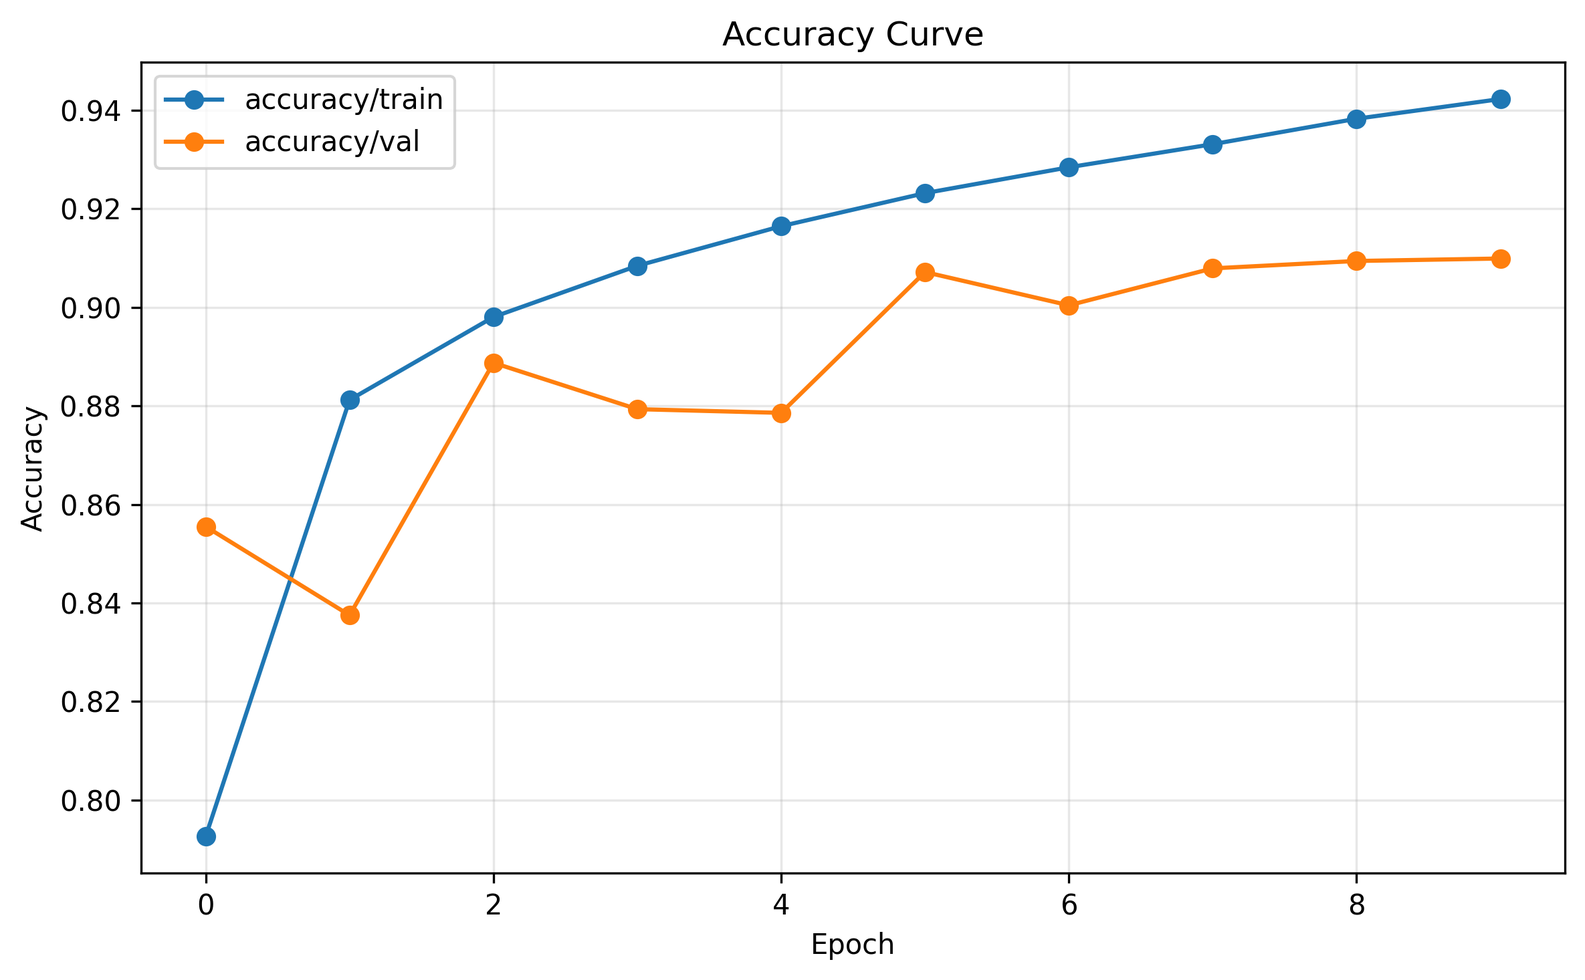
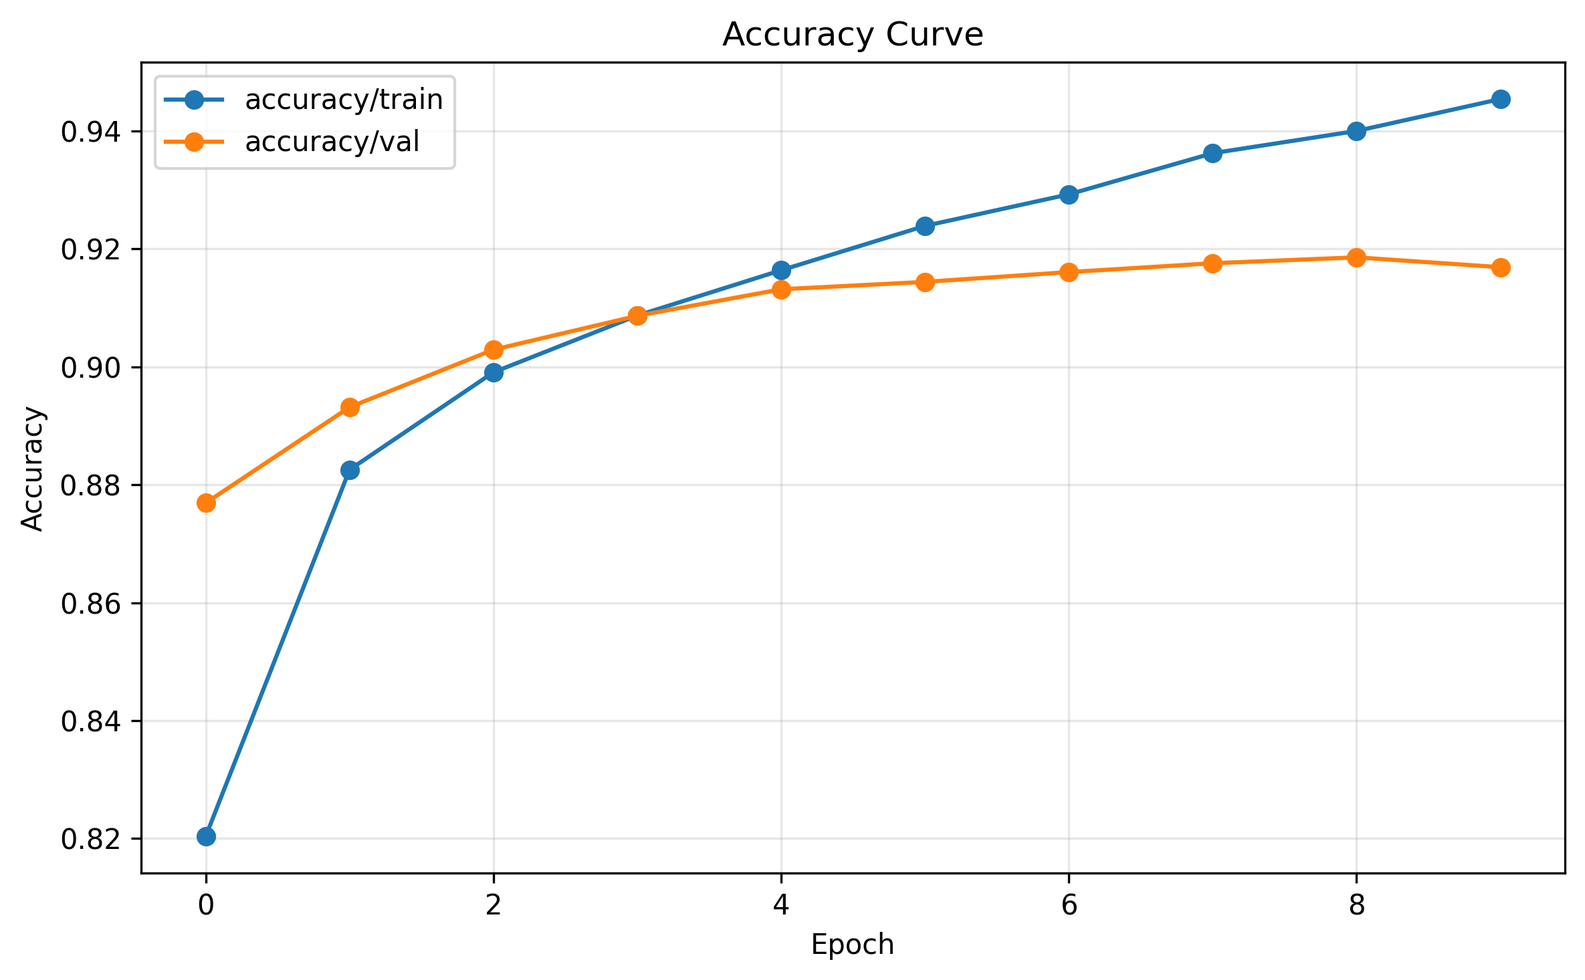
select cnn basic

diff --git a/dvclive/report.html b/dvclive/report.html
@@ -22,10 +22,10 @@
             <div style="display: flex;justify-content: center;">
                 <table>
 <thead>
-<tr><th>arch_config            </th><th>arch_name  </th><th style="text-align: right;">  epochs</th><th style="text-align: right;">  batch_size</th><th style="text-align: right;">   lr</th><th>optimizer  </th><th style="text-align: right;">  dropout</th><th style="text-align: right;">  total_params</th><th style="text-align: right;">  seed</th></tr>
+<tr><th>arch_config          </th><th>arch_name  </th><th style="text-align: right;">  epochs</th><th style="text-align: right;">  batch_size</th><th style="text-align: right;">   lr</th><th>optimizer  </th><th style="text-align: right;">  dropout</th><th style="text-align: right;">  total_params</th><th style="text-align: right;">  seed</th></tr>
 </thead>
 <tbody>
-<tr><td>configs/cnn_dropout.yml</td><td>cnn_dropout</td><td style="text-align: right;">      10</td><td style="text-align: right;">          64</td><td style="text-align: right;">0.001</td><td>adam       </td><td style="text-align: right;">      0.3</td><td style="text-align: right;">        118986</td><td style="text-align: right;">    42</td></tr>
+<tr><td>configs/cnn_basic.yml</td><td>cnn_basic  </td><td style="text-align: right;">      10</td><td style="text-align: right;">          64</td><td style="text-align: right;">0.001</td><td>adam       </td><td style="text-align: right;">      0.3</td><td style="text-align: right;">        421642</td><td style="text-align: right;">    42</td></tr>
 </tbody>
 </table>
             </div>
@@ -39,7 +39,7 @@
 <tr><th style="text-align: right;">  loss.train</th><th style="text-align: right;">  loss.val</th><th style="text-align: right;">  accuracy.train</th><th style="text-align: right;">  accuracy.val</th><th style="text-align: right;">  step</th><th style="text-align: right;">  final_train_accuracy</th><th style="text-align: right;">  final_val_accuracy</th><th style="text-align: right;">  final_train_loss</th><th style="text-align: right;">  final_val_loss</th></tr>
 </thead>
 <tbody>
-<tr><td style="text-align: right;">    0.164721</td><td style="text-align: right;">  0.282916</td><td style="text-align: right;">        0.942292</td><td style="text-align: right;">      0.909917</td><td style="text-align: right;">     9</td><td style="text-align: right;">                0.9423</td><td style="text-align: right;">              0.9099</td><td style="text-align: right;">            0.1647</td><td style="text-align: right;">          0.2829</td></tr>
+<tr><td style="text-align: right;">    0.145515</td><td style="text-align: right;">  0.243749</td><td style="text-align: right;">        0.945437</td><td style="text-align: right;">      0.916917</td><td style="text-align: right;">     9</td><td style="text-align: right;">                0.9454</td><td style="text-align: right;">              0.9169</td><td style="text-align: right;">            0.1455</td><td style="text-align: right;">          0.2437</td></tr>
 </tbody>
 </table>
             </div>
@@ -47,7 +47,7 @@
 
     <div id = "static_accuracy_train">
         <script type = "text/javascript">
-            var spec = {"$schema": "https://vega.github.io/schema/vega-lite/v5.json", "data": {"values": [{"step": "0", "train": "0.7926250100135803", "rev": "workspace"}, {"step": "1", "train": "0.8812083601951599", "rev": "workspace"}, {"step": "2", "train": "0.8980416655540466", "rev": "workspace"}, {"step": "3", "train": "0.9084374904632568", "rev": "workspace"}, {"step": "4", "train": "0.9164791703224182", "rev": "workspace"}, {"step": "5", "train": "0.9231874942779541", "rev": "workspace"}, {"step": "6", "train": "0.9284374713897705", "rev": "workspace"}, {"step": "7", "train": "0.9331250190734863", "rev": "workspace"}, {"step": "8", "train": "0.9382916688919067", "rev": "workspace"}, {"step": "9", "train": "0.9422916769981384", "rev": "workspace"}]}, "title": {"text": "accuracy/train", "anchor": "middle"}, "width": 300, "height": 300, "params": [{"name": "smooth", "value": 0.001, "bind": {"input": "range", "min": 0.001, "max": 1, "step": 0.001}}], "encoding": {"x": {"field": "step", "type": "quantitative", "title": "step"}, "color": {"field": "rev", "scale": {"domain": ["workspace"], "range": ["#945dd6"]}}, "strokeDash": {}}, "layer": [{"layer": [{"params": [{"name": "grid", "select": "interval", "bind": "scales"}], "mark": "line"}, {"transform": [{"filter": {"param": "hover", "empty": false}}], "mark": "point"}], "encoding": {"y": {"field": "train", "type": "quantitative", "title": "train", "scale": {"zero": false}}, "color": {"field": "rev", "type": "nominal"}}, "transform": [{"loess": "train", "on": "step", "groupby": ["rev"], "bandwidth": {"signal": "smooth"}}]}, {"mark": {"type": "line", "opacity": 0.2}, "encoding": {"x": {"field": "step", "type": "quantitative", "title": "step"}, "y": {"field": "train", "type": "quantitative", "title": "train", "scale": {"zero": false}}, "color": {"field": "rev", "type": "nominal"}}}, {"mark": {"type": "circle", "size": 10}, "encoding": {"x": {"aggregate": "max", "field": "step", "type": "quantitative", "title": "step"}, "y": {"aggregate": {"argmax": "step"}, "field": "train", "type": "quantitative", "title": "train", "scale": {"zero": false}}, "color": {"field": "rev", "type": "nominal"}}}, {"transform": [{"calculate": "datum.rev", "as": "pivot_field"}, {"pivot": "pivot_field", "op": "mean", "value": "train", "groupby": ["step"]}], "mark": {"type": "rule", "tooltip": {"content": "data"}, "stroke": "grey"}, "encoding": {"opacity": {"condition": {"value": 0.3, "param": "hover", "empty": false}, "value": 0}}, "params": [{"name": "hover", "select": {"type": "point", "fields": ["step"], "nearest": true, "on": "mouseover", "clear": "mouseout"}}]}]};
+            var spec = {"$schema": "https://vega.github.io/schema/vega-lite/v5.json", "data": {"values": [{"step": "0", "train": "0.8203750252723694", "rev": "workspace"}, {"step": "1", "train": "0.882562518119812", "rev": "workspace"}, {"step": "2", "train": "0.8990833163261414", "rev": "workspace"}, {"step": "3", "train": "0.9087083339691162", "rev": "workspace"}, {"step": "4", "train": "0.9163958430290222", "rev": "workspace"}, {"step": "5", "train": "0.9239166378974915", "rev": "workspace"}, {"step": "6", "train": "0.9292708039283752", "rev": "workspace"}, {"step": "7", "train": "0.9362499713897705", "rev": "workspace"}, {"step": "8", "train": "0.9400208592414856", "rev": "workspace"}, {"step": "9", "train": "0.945437490940094", "rev": "workspace"}]}, "title": {"text": "accuracy/train", "anchor": "middle"}, "width": 300, "height": 300, "params": [{"name": "smooth", "value": 0.001, "bind": {"input": "range", "min": 0.001, "max": 1, "step": 0.001}}], "encoding": {"x": {"field": "step", "type": "quantitative", "title": "step"}, "color": {"field": "rev", "scale": {"domain": ["workspace"], "range": ["#945dd6"]}}, "strokeDash": {}}, "layer": [{"layer": [{"params": [{"name": "grid", "select": "interval", "bind": "scales"}], "mark": "line"}, {"transform": [{"filter": {"param": "hover", "empty": false}}], "mark": "point"}], "encoding": {"y": {"field": "train", "type": "quantitative", "title": "train", "scale": {"zero": false}}, "color": {"field": "rev", "type": "nominal"}}, "transform": [{"loess": "train", "on": "step", "groupby": ["rev"], "bandwidth": {"signal": "smooth"}}]}, {"mark": {"type": "line", "opacity": 0.2}, "encoding": {"x": {"field": "step", "type": "quantitative", "title": "step"}, "y": {"field": "train", "type": "quantitative", "title": "train", "scale": {"zero": false}}, "color": {"field": "rev", "type": "nominal"}}}, {"mark": {"type": "circle", "size": 10}, "encoding": {"x": {"aggregate": "max", "field": "step", "type": "quantitative", "title": "step"}, "y": {"aggregate": {"argmax": "step"}, "field": "train", "type": "quantitative", "title": "train", "scale": {"zero": false}}, "color": {"field": "rev", "type": "nominal"}}}, {"transform": [{"calculate": "datum.rev", "as": "pivot_field"}, {"pivot": "pivot_field", "op": "mean", "value": "train", "groupby": ["step"]}], "mark": {"type": "rule", "tooltip": {"content": "data"}, "stroke": "grey"}, "encoding": {"opacity": {"condition": {"value": 0.3, "param": "hover", "empty": false}, "value": 0}}, "params": [{"name": "hover", "select": {"type": "point", "fields": ["step"], "nearest": true, "on": "mouseover", "clear": "mouseout"}}]}]};
             vegaEmbed('#static_accuracy_train', spec);
         </script>
     </div>
@@ -55,7 +55,7 @@
 
     <div id = "static_accuracy_val">
         <script type = "text/javascript">
-            var spec = {"$schema": "https://vega.github.io/schema/vega-lite/v5.json", "data": {"values": [{"step": "0", "val": "0.8554999828338623", "rev": "workspace"}, {"step": "1", "val": "0.8374999761581421", "rev": "workspace"}, {"step": "2", "val": "0.8887500166893005", "rev": "workspace"}, {"step": "3", "val": "0.8793333172798157", "rev": "workspace"}, {"step": "4", "val": "0.8785833120346069", "rev": "workspace"}, {"step": "5", "val": "0.9071666598320007", "rev": "workspace"}, {"step": "6", "val": "0.9004166722297668", "rev": "workspace"}, {"step": "7", "val": "0.9079166650772095", "rev": "workspace"}, {"step": "8", "val": "0.909416675567627", "rev": "workspace"}, {"step": "9", "val": "0.9099166393280029", "rev": "workspace"}]}, "title": {"text": "accuracy/val", "anchor": "middle"}, "width": 300, "height": 300, "params": [{"name": "smooth", "value": 0.001, "bind": {"input": "range", "min": 0.001, "max": 1, "step": 0.001}}], "encoding": {"x": {"field": "step", "type": "quantitative", "title": "step"}, "color": {"field": "rev", "scale": {"domain": ["workspace"], "range": ["#945dd6"]}}, "strokeDash": {}}, "layer": [{"layer": [{"params": [{"name": "grid", "select": "interval", "bind": "scales"}], "mark": "line"}, {"transform": [{"filter": {"param": "hover", "empty": false}}], "mark": "point"}], "encoding": {"y": {"field": "val", "type": "quantitative", "title": "val", "scale": {"zero": false}}, "color": {"field": "rev", "type": "nominal"}}, "transform": [{"loess": "val", "on": "step", "groupby": ["rev"], "bandwidth": {"signal": "smooth"}}]}, {"mark": {"type": "line", "opacity": 0.2}, "encoding": {"x": {"field": "step", "type": "quantitative", "title": "step"}, "y": {"field": "val", "type": "quantitative", "title": "val", "scale": {"zero": false}}, "color": {"field": "rev", "type": "nominal"}}}, {"mark": {"type": "circle", "size": 10}, "encoding": {"x": {"aggregate": "max", "field": "step", "type": "quantitative", "title": "step"}, "y": {"aggregate": {"argmax": "step"}, "field": "val", "type": "quantitative", "title": "val", "scale": {"zero": false}}, "color": {"field": "rev", "type": "nominal"}}}, {"transform": [{"calculate": "datum.rev", "as": "pivot_field"}, {"pivot": "pivot_field", "op": "mean", "value": "val", "groupby": ["step"]}], "mark": {"type": "rule", "tooltip": {"content": "data"}, "stroke": "grey"}, "encoding": {"opacity": {"condition": {"value": 0.3, "param": "hover", "empty": false}, "value": 0}}, "params": [{"name": "hover", "select": {"type": "point", "fields": ["step"], "nearest": true, "on": "mouseover", "clear": "mouseout"}}]}]};
+            var spec = {"$schema": "https://vega.github.io/schema/vega-lite/v5.json", "data": {"values": [{"step": "0", "val": "0.8769166469573975", "rev": "workspace"}, {"step": "1", "val": "0.8931666612625122", "rev": "workspace"}, {"step": "2", "val": "0.902916669845581", "rev": "workspace"}, {"step": "3", "val": "0.9086666703224182", "rev": "workspace"}, {"step": "4", "val": "0.9131666421890259", "rev": "workspace"}, {"step": "5", "val": "0.9144166707992554", "rev": "workspace"}, {"step": "6", "val": "0.9160833358764648", "rev": "workspace"}, {"step": "7", "val": "0.9175833463668823", "rev": "workspace"}, {"step": "8", "val": "0.918583333492279", "rev": "workspace"}, {"step": "9", "val": "0.9169166684150696", "rev": "workspace"}]}, "title": {"text": "accuracy/val", "anchor": "middle"}, "width": 300, "height": 300, "params": [{"name": "smooth", "value": 0.001, "bind": {"input": "range", "min": 0.001, "max": 1, "step": 0.001}}], "encoding": {"x": {"field": "step", "type": "quantitative", "title": "step"}, "color": {"field": "rev", "scale": {"domain": ["workspace"], "range": ["#945dd6"]}}, "strokeDash": {}}, "layer": [{"layer": [{"params": [{"name": "grid", "select": "interval", "bind": "scales"}], "mark": "line"}, {"transform": [{"filter": {"param": "hover", "empty": false}}], "mark": "point"}], "encoding": {"y": {"field": "val", "type": "quantitative", "title": "val", "scale": {"zero": false}}, "color": {"field": "rev", "type": "nominal"}}, "transform": [{"loess": "val", "on": "step", "groupby": ["rev"], "bandwidth": {"signal": "smooth"}}]}, {"mark": {"type": "line", "opacity": 0.2}, "encoding": {"x": {"field": "step", "type": "quantitative", "title": "step"}, "y": {"field": "val", "type": "quantitative", "title": "val", "scale": {"zero": false}}, "color": {"field": "rev", "type": "nominal"}}}, {"mark": {"type": "circle", "size": 10}, "encoding": {"x": {"aggregate": "max", "field": "step", "type": "quantitative", "title": "step"}, "y": {"aggregate": {"argmax": "step"}, "field": "val", "type": "quantitative", "title": "val", "scale": {"zero": false}}, "color": {"field": "rev", "type": "nominal"}}}, {"transform": [{"calculate": "datum.rev", "as": "pivot_field"}, {"pivot": "pivot_field", "op": "mean", "value": "val", "groupby": ["step"]}], "mark": {"type": "rule", "tooltip": {"content": "data"}, "stroke": "grey"}, "encoding": {"opacity": {"condition": {"value": 0.3, "param": "hover", "empty": false}, "value": 0}}, "params": [{"name": "hover", "select": {"type": "point", "fields": ["step"], "nearest": true, "on": "mouseover", "clear": "mouseout"}}]}]};
             vegaEmbed('#static_accuracy_val', spec);
         </script>
     </div>
@@ -63,7 +63,7 @@
 
     <div id = "static_loss_train">
         <script type = "text/javascript">
-            var spec = {"$schema": "https://vega.github.io/schema/vega-lite/v5.json", "data": {"values": [{"step": "0", "train": "0.6009523272514343", "rev": "workspace"}, {"step": "1", "train": "0.3474387526512146", "rev": "workspace"}, {"step": "2", "train": "0.296583890914917", "rev": "workspace"}, {"step": "3", "train": "0.2635086178779602", "rev": "workspace"}, {"step": "4", "train": "0.23954515159130096", "rev": "workspace"}, {"step": "5", "train": "0.21975918114185333", "rev": "workspace"}, {"step": "6", "train": "0.20529229938983917", "rev": "workspace"}, {"step": "7", "train": "0.1925332248210907", "rev": "workspace"}, {"step": "8", "train": "0.17455114424228668", "rev": "workspace"}, {"step": "9", "train": "0.16472136974334717", "rev": "workspace"}]}, "title": {"text": "loss/train", "anchor": "middle"}, "width": 300, "height": 300, "params": [{"name": "smooth", "value": 0.001, "bind": {"input": "range", "min": 0.001, "max": 1, "step": 0.001}}], "encoding": {"x": {"field": "step", "type": "quantitative", "title": "step"}, "color": {"field": "rev", "scale": {"domain": ["workspace"], "range": ["#945dd6"]}}, "strokeDash": {}}, "layer": [{"layer": [{"params": [{"name": "grid", "select": "interval", "bind": "scales"}], "mark": "line"}, {"transform": [{"filter": {"param": "hover", "empty": false}}], "mark": "point"}], "encoding": {"y": {"field": "train", "type": "quantitative", "title": "train", "scale": {"zero": false}}, "color": {"field": "rev", "type": "nominal"}}, "transform": [{"loess": "train", "on": "step", "groupby": ["rev"], "bandwidth": {"signal": "smooth"}}]}, {"mark": {"type": "line", "opacity": 0.2}, "encoding": {"x": {"field": "step", "type": "quantitative", "title": "step"}, "y": {"field": "train", "type": "quantitative", "title": "train", "scale": {"zero": false}}, "color": {"field": "rev", "type": "nominal"}}}, {"mark": {"type": "circle", "size": 10}, "encoding": {"x": {"aggregate": "max", "field": "step", "type": "quantitative", "title": "step"}, "y": {"aggregate": {"argmax": "step"}, "field": "train", "type": "quantitative", "title": "train", "scale": {"zero": false}}, "color": {"field": "rev", "type": "nominal"}}}, {"transform": [{"calculate": "datum.rev", "as": "pivot_field"}, {"pivot": "pivot_field", "op": "mean", "value": "train", "groupby": ["step"]}], "mark": {"type": "rule", "tooltip": {"content": "data"}, "stroke": "grey"}, "encoding": {"opacity": {"condition": {"value": 0.3, "param": "hover", "empty": false}, "value": 0}}, "params": [{"name": "hover", "select": {"type": "point", "fields": ["step"], "nearest": true, "on": "mouseover", "clear": "mouseout"}}]}]};
+            var spec = {"$schema": "https://vega.github.io/schema/vega-lite/v5.json", "data": {"values": [{"step": "0", "train": "0.5050586462020874", "rev": "workspace"}, {"step": "1", "train": "0.3271621763706207", "rev": "workspace"}, {"step": "2", "train": "0.28200992941856384", "rev": "workspace"}, {"step": "3", "train": "0.25087201595306396", "rev": "workspace"}, {"step": "4", "train": "0.2270040512084961", "rev": "workspace"}, {"step": "5", "train": "0.20727579295635223", "rev": "workspace"}, {"step": "6", "train": "0.18933501839637756", "rev": "workspace"}, {"step": "7", "train": "0.17206260561943054", "rev": "workspace"}, {"step": "8", "train": "0.1599230021238327", "rev": "workspace"}, {"step": "9", "train": "0.14551472663879395", "rev": "workspace"}]}, "title": {"text": "loss/train", "anchor": "middle"}, "width": 300, "height": 300, "params": [{"name": "smooth", "value": 0.001, "bind": {"input": "range", "min": 0.001, "max": 1, "step": 0.001}}], "encoding": {"x": {"field": "step", "type": "quantitative", "title": "step"}, "color": {"field": "rev", "scale": {"domain": ["workspace"], "range": ["#945dd6"]}}, "strokeDash": {}}, "layer": [{"layer": [{"params": [{"name": "grid", "select": "interval", "bind": "scales"}], "mark": "line"}, {"transform": [{"filter": {"param": "hover", "empty": false}}], "mark": "point"}], "encoding": {"y": {"field": "train", "type": "quantitative", "title": "train", "scale": {"zero": false}}, "color": {"field": "rev", "type": "nominal"}}, "transform": [{"loess": "train", "on": "step", "groupby": ["rev"], "bandwidth": {"signal": "smooth"}}]}, {"mark": {"type": "line", "opacity": 0.2}, "encoding": {"x": {"field": "step", "type": "quantitative", "title": "step"}, "y": {"field": "train", "type": "quantitative", "title": "train", "scale": {"zero": false}}, "color": {"field": "rev", "type": "nominal"}}}, {"mark": {"type": "circle", "size": 10}, "encoding": {"x": {"aggregate": "max", "field": "step", "type": "quantitative", "title": "step"}, "y": {"aggregate": {"argmax": "step"}, "field": "train", "type": "quantitative", "title": "train", "scale": {"zero": false}}, "color": {"field": "rev", "type": "nominal"}}}, {"transform": [{"calculate": "datum.rev", "as": "pivot_field"}, {"pivot": "pivot_field", "op": "mean", "value": "train", "groupby": ["step"]}], "mark": {"type": "rule", "tooltip": {"content": "data"}, "stroke": "grey"}, "encoding": {"opacity": {"condition": {"value": 0.3, "param": "hover", "empty": false}, "value": 0}}, "params": [{"name": "hover", "select": {"type": "point", "fields": ["step"], "nearest": true, "on": "mouseover", "clear": "mouseout"}}]}]};
             vegaEmbed('#static_loss_train', spec);
         </script>
     </div>
@@ -71,7 +71,7 @@
 
     <div id = "static_loss_val">
         <script type = "text/javascript">
-            var spec = {"$schema": "https://vega.github.io/schema/vega-lite/v5.json", "data": {"values": [{"step": "0", "val": "0.38093066215515137", "rev": "workspace"}, {"step": "1", "val": "0.43801647424697876", "rev": "workspace"}, {"step": "2", "val": "0.3142041265964508", "rev": "workspace"}, {"step": "3", "val": "0.33732569217681885", "rev": "workspace"}, {"step": "4", "val": "0.3473016619682312", "rev": "workspace"}, {"step": "5", "val": "0.267749547958374", "rev": "workspace"}, {"step": "6", "val": "0.29081806540489197", "rev": "workspace"}, {"step": "7", "val": "0.2700712978839874", "rev": "workspace"}, {"step": "8", "val": "0.26811549067497253", "rev": "workspace"}, {"step": "9", "val": "0.2829161584377289", "rev": "workspace"}]}, "title": {"text": "loss/val", "anchor": "middle"}, "width": 300, "height": 300, "params": [{"name": "smooth", "value": 0.001, "bind": {"input": "range", "min": 0.001, "max": 1, "step": 0.001}}], "encoding": {"x": {"field": "step", "type": "quantitative", "title": "step"}, "color": {"field": "rev", "scale": {"domain": ["workspace"], "range": ["#945dd6"]}}, "strokeDash": {}}, "layer": [{"layer": [{"params": [{"name": "grid", "select": "interval", "bind": "scales"}], "mark": "line"}, {"transform": [{"filter": {"param": "hover", "empty": false}}], "mark": "point"}], "encoding": {"y": {"field": "val", "type": "quantitative", "title": "val", "scale": {"zero": false}}, "color": {"field": "rev", "type": "nominal"}}, "transform": [{"loess": "val", "on": "step", "groupby": ["rev"], "bandwidth": {"signal": "smooth"}}]}, {"mark": {"type": "line", "opacity": 0.2}, "encoding": {"x": {"field": "step", "type": "quantitative", "title": "step"}, "y": {"field": "val", "type": "quantitative", "title": "val", "scale": {"zero": false}}, "color": {"field": "rev", "type": "nominal"}}}, {"mark": {"type": "circle", "size": 10}, "encoding": {"x": {"aggregate": "max", "field": "step", "type": "quantitative", "title": "step"}, "y": {"aggregate": {"argmax": "step"}, "field": "val", "type": "quantitative", "title": "val", "scale": {"zero": false}}, "color": {"field": "rev", "type": "nominal"}}}, {"transform": [{"calculate": "datum.rev", "as": "pivot_field"}, {"pivot": "pivot_field", "op": "mean", "value": "val", "groupby": ["step"]}], "mark": {"type": "rule", "tooltip": {"content": "data"}, "stroke": "grey"}, "encoding": {"opacity": {"condition": {"value": 0.3, "param": "hover", "empty": false}, "value": 0}}, "params": [{"name": "hover", "select": {"type": "point", "fields": ["step"], "nearest": true, "on": "mouseover", "clear": "mouseout"}}]}]};
+            var spec = {"$schema": "https://vega.github.io/schema/vega-lite/v5.json", "data": {"values": [{"step": "0", "val": "0.3278724253177643", "rev": "workspace"}, {"step": "1", "val": "0.28591734170913696", "rev": "workspace"}, {"step": "2", "val": "0.2613348364830017", "rev": "workspace"}, {"step": "3", "val": "0.24362260103225708", "rev": "workspace"}, {"step": "4", "val": "0.23754988610744476", "rev": "workspace"}, {"step": "5", "val": "0.2366449236869812", "rev": "workspace"}, {"step": "6", "val": "0.23138071596622467", "rev": "workspace"}, {"step": "7", "val": "0.2363208681344986", "rev": "workspace"}, {"step": "8", "val": "0.2372201383113861", "rev": "workspace"}, {"step": "9", "val": "0.24374906718730927", "rev": "workspace"}]}, "title": {"text": "loss/val", "anchor": "middle"}, "width": 300, "height": 300, "params": [{"name": "smooth", "value": 0.001, "bind": {"input": "range", "min": 0.001, "max": 1, "step": 0.001}}], "encoding": {"x": {"field": "step", "type": "quantitative", "title": "step"}, "color": {"field": "rev", "scale": {"domain": ["workspace"], "range": ["#945dd6"]}}, "strokeDash": {}}, "layer": [{"layer": [{"params": [{"name": "grid", "select": "interval", "bind": "scales"}], "mark": "line"}, {"transform": [{"filter": {"param": "hover", "empty": false}}], "mark": "point"}], "encoding": {"y": {"field": "val", "type": "quantitative", "title": "val", "scale": {"zero": false}}, "color": {"field": "rev", "type": "nominal"}}, "transform": [{"loess": "val", "on": "step", "groupby": ["rev"], "bandwidth": {"signal": "smooth"}}]}, {"mark": {"type": "line", "opacity": 0.2}, "encoding": {"x": {"field": "step", "type": "quantitative", "title": "step"}, "y": {"field": "val", "type": "quantitative", "title": "val", "scale": {"zero": false}}, "color": {"field": "rev", "type": "nominal"}}}, {"mark": {"type": "circle", "size": 10}, "encoding": {"x": {"aggregate": "max", "field": "step", "type": "quantitative", "title": "step"}, "y": {"aggregate": {"argmax": "step"}, "field": "val", "type": "quantitative", "title": "val", "scale": {"zero": false}}, "color": {"field": "rev", "type": "nominal"}}}, {"transform": [{"calculate": "datum.rev", "as": "pivot_field"}, {"pivot": "pivot_field", "op": "mean", "value": "val", "groupby": ["step"]}], "mark": {"type": "rule", "tooltip": {"content": "data"}, "stroke": "grey"}, "encoding": {"opacity": {"condition": {"value": 0.3, "param": "hover", "empty": false}, "value": 0}}, "params": [{"name": "hover", "select": {"type": "point", "fields": ["step"], "nearest": true, "on": "mouseover", "clear": "mouseout"}}]}]};
             vegaEmbed('#static_loss_val', spec);
         </script>
     </div>
